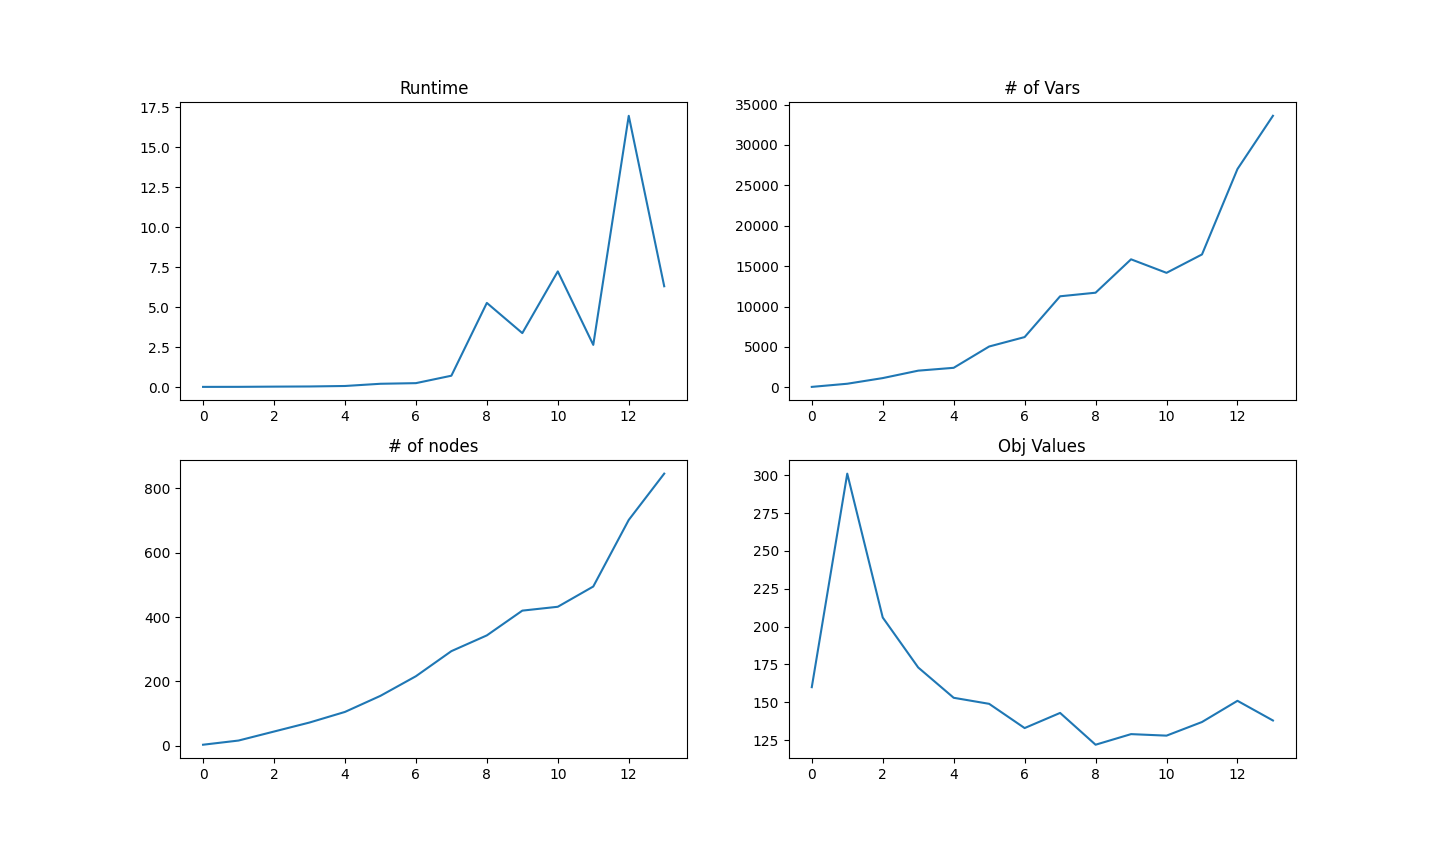
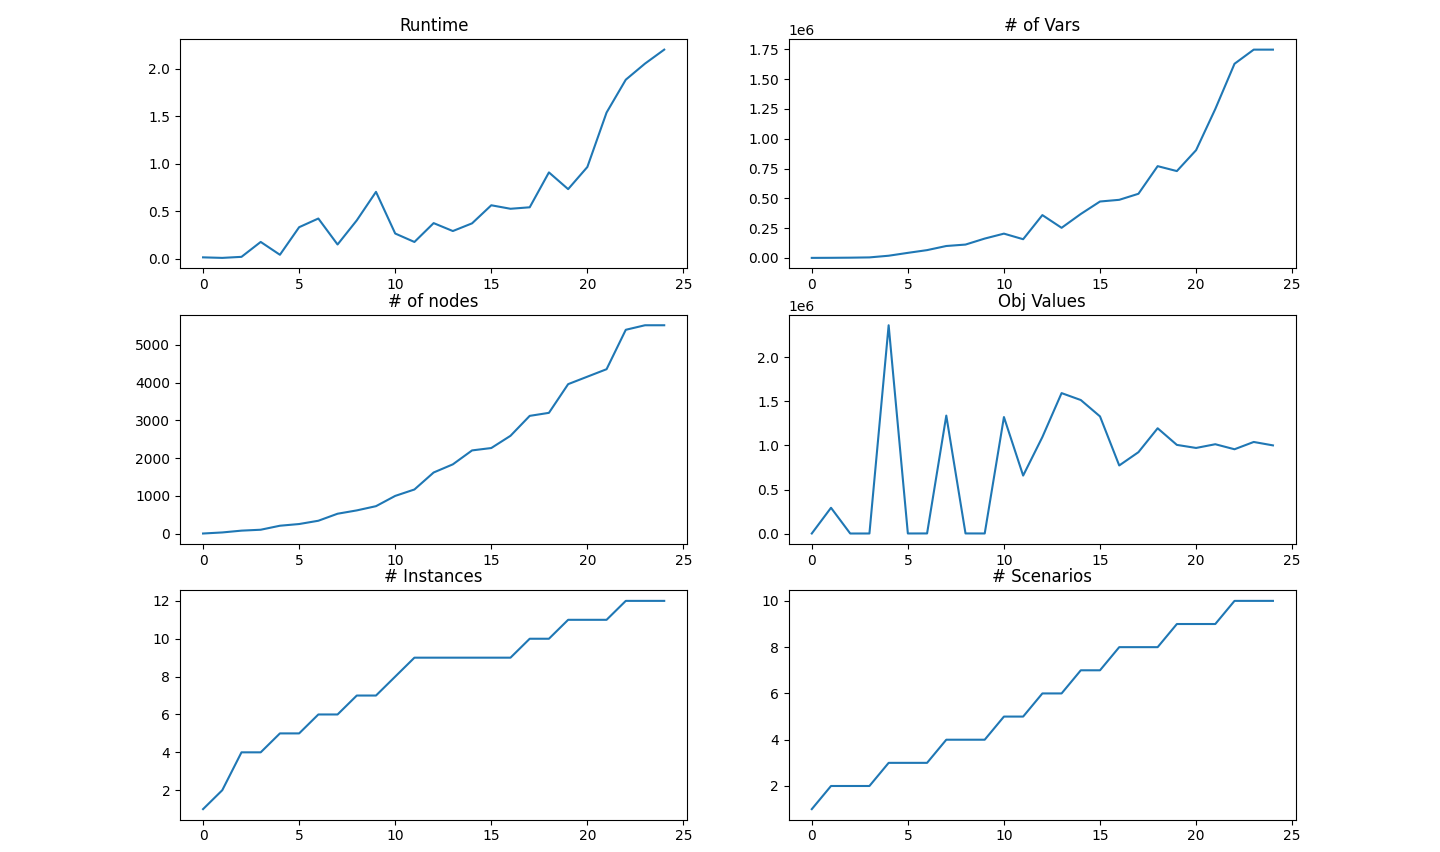
edit

diff --git a/runExpeStoc.py b/runExpeStoc.py
@@ -45,6 +45,19 @@ def throwSequence():
         25 : [10, 12, 11, 14, 11, 10],
         26 : [10, 12, 11, 14, 11, 10]
     }
+
+    demand = {
+        1 : [50, 100],
+        2 : [250, 300],
+        3 : [450, 500],
+        4 : [750, 800],
+        5 : [950, 1000],
+        6 : [1450, 1500],
+        7 : [2450, 2500],
+        8 : [4950, 5000],
+        9 : [9950, 10000],
+        10 : [15000, 20000],
+    }
     # num_i = 2
     # num_a = 2
     # num_b = 2
@@ -85,9 +98,12 @@ def throwSequence():
     numNodes = []
     numInst = []
     numScen = []
+    numK = []
 
 
-    for row in parameters.values():
+    #for row in parameters.values():
+    for evaDemand in demand.values():
+        row = parameters[4]
         numScenarios = row[0]
         num_i = row[1]
         num_a = row[2]
@@ -105,17 +121,21 @@ def throwSequence():
             nVars.append(len(experiment.getVars()))
             index = index +1
             obj.append(objVal)
-            numNodes.append((num_a + num_b + num_c + num_h) * num_i * numScenarios)
-            numInst.append(num_i)
-            numScen.append(numScenarios)
-    fig1, axs1 = plt.subplots(3, 2)
+            numK.append(data["scenarios"][0].num_k)
+            #numNodes.append((num_a + num_b + num_c + num_h) * num_i * numScenarios)
+            # numInst.append(num_i)
+            # numScen.append(numScenarios)
+    fig1, axs1 = plt.subplots(2, 2)
     #fig1.suptitle('Vertically stacked subplots')
     axs1[0][0].plot(X, time )
     axs1[0][0].set_title('Runtime')
     #plt.grid()
 
-    axs1[1][0].plot(X, numNodes)
-    axs1[1][0].set_title('# of nodes')
+    axs1[1][0].plot(X, numK)
+    axs1[1][0].set_title('# roundTrips')
+    
+    # axs1[1][0].plot(X, numNodes)
+    # axs1[1][0].set_title('# of nodes')
 
     axs1[0][1].plot(X,  nVars )
     axs1[0][1].set_title('# of Vars')
@@ -123,11 +143,11 @@ def throwSequence():
     axs1[1][1].plot(X,  obj )
     axs1[1][1].set_title('Obj Values')
 
-    axs1[2][0].plot(X,  numInst )
-    axs1[2][0].set_title('# Instances')
+    # axs1[2][0].plot(X,  numK )
+    # axs1[2][0].set_title('# roundTrips')
 
-    axs1[2][1].plot(X,  numScen )
-    axs1[2][1].set_title('# Scenarios')
+    # axs1[2][1].plot(X,  numScen )
+    # axs1[2][1].set_title('# Scenarios')
     plt.show()
 
 
